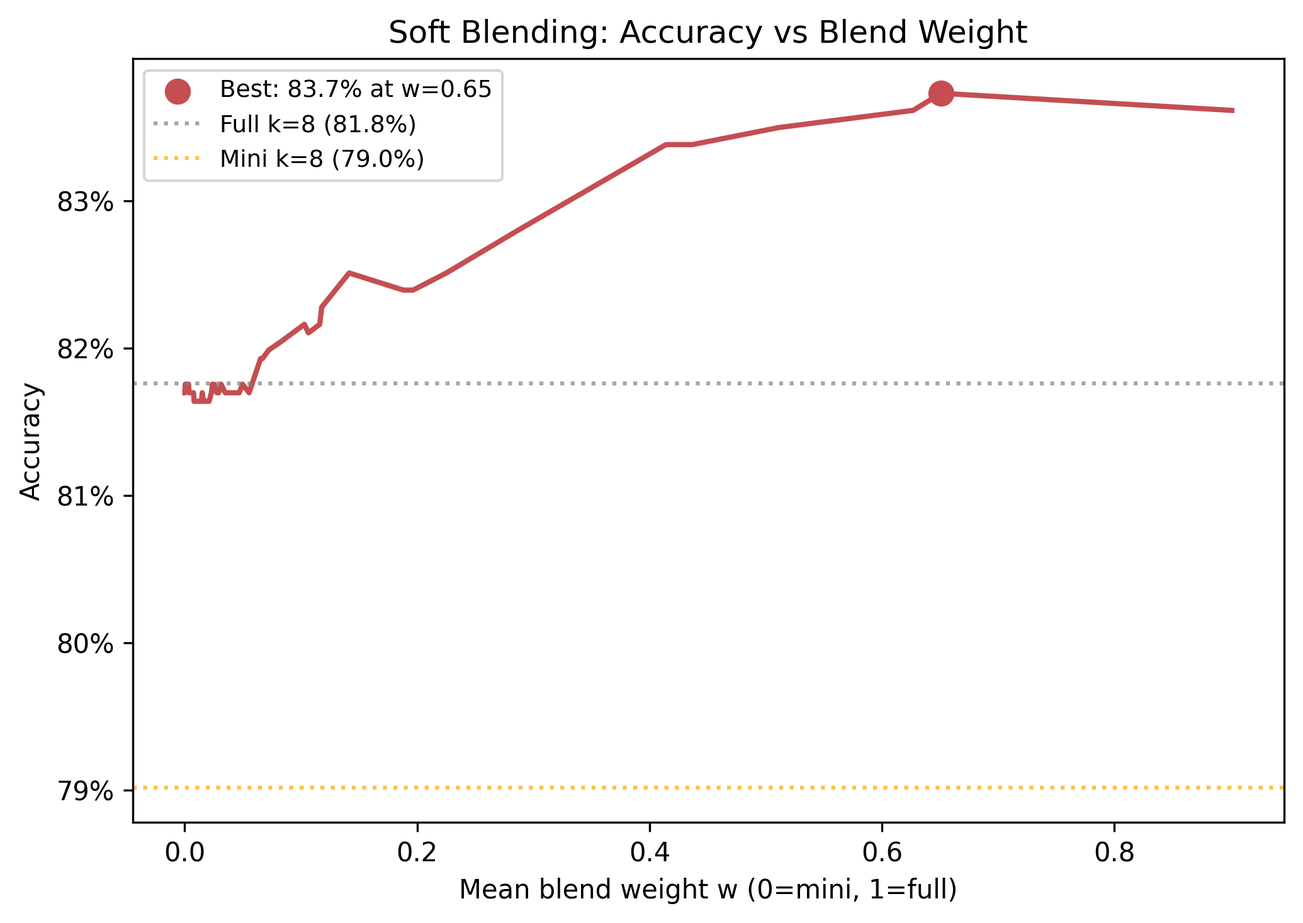
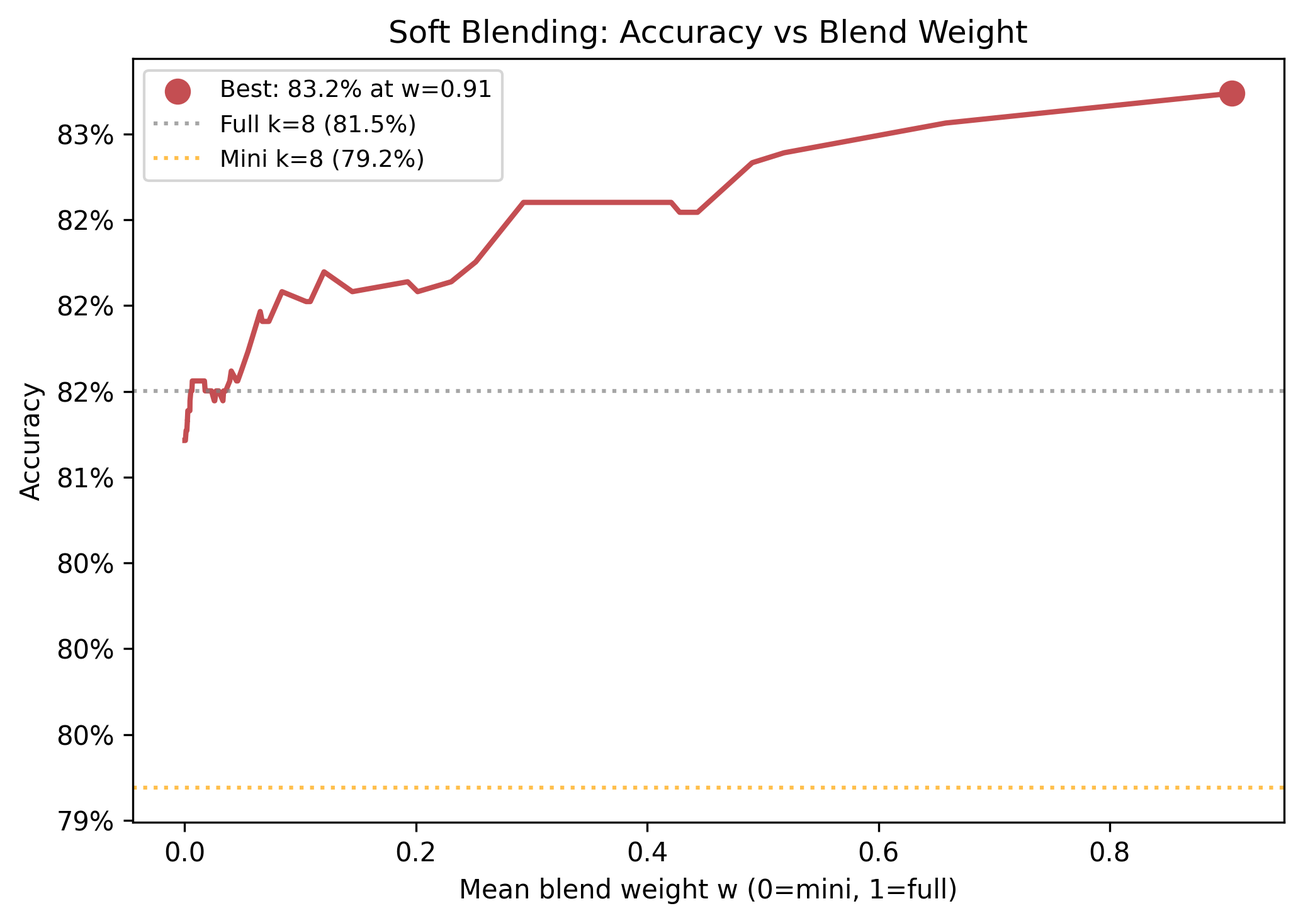
Re-collect all data, remove legacy code, update report with final numbers
Re-collected all 7 core collections + 3 temperature sweep runs using the
new unified collect.py pipeline. All collections now use the same format
(both models, k=8) so every derived condition shares the same example set.

Remove all legacy format handling from compute_metrics.py and figures.py:
- Drop all_scores / input_tokens fallbacks
- Drop legacy filename prefixes (escalation_mini, criteria_gpt, etc.)
- Drop legacy baseline/ensemble fallback blocks

Update report and README with final numbers from fresh data:
- Baseline: 71.7% (±2.0pp)
- Criteria k=8: 83.6% (±1.6pp) — most cost-effective high-accuracy condition
- Combined (full k=8): 82.6% (±1.6pp)
- Combined + blend (test): 84.8%
- Temperature sweep confirms k=1 stable across temps, k=8 needs temp>0

All 10 figures regenerated including temperature sweep (Fig 10).

diff --git a/analysis/compute_metrics.py b/analysis/compute_metrics.py
@@ -97,10 +97,7 @@ def compute_accuracy(
     for r in data:
         scores_per_resp = r.get(score_key)
         if scores_per_resp is None:
-            # Fallback for legacy format
-            scores_per_resp = r.get("all_scores")
-            if scores_per_resp is None:
-                continue
+            continue
         subset = r["subset"]
         means = []
         for scores in scores_per_resp:
@@ -201,10 +198,6 @@ def compute_cost(data: list[dict]) -> dict:
         if "full_input_tokens" in c:
             full_in += c["full_input_tokens"]
             full_out += c["full_output_tokens"]
-        # Legacy single-model format
-        if "input_tokens" in c:
-            full_in += c["input_tokens"]
-            full_out += c["output_tokens"]
 
     mini_cost = mini_in / 1e6 * GPT54_MINI_INPUT_PER_M + mini_out / 1e6 * GPT54_MINI_OUTPUT_PER_M
     full_cost = full_in / 1e6 * GPT54_INPUT_PER_M + full_out / 1e6 * GPT54_OUTPUT_PER_M
@@ -231,7 +224,7 @@ def compute_variance_metrics(data: list[dict], model: str = "full") -> dict:
     by_subset = defaultdict(lambda: {"stds_correct": [], "stds_incorrect": [], "all_stds": []})
 
     for r in data:
-        scores_per_resp = r.get(score_key, r.get("all_scores"))
+        scores_per_resp = r.get(score_key)
         if scores_per_resp is None:
             continue
 
@@ -256,7 +249,7 @@ def compute_variance_metrics(data: list[dict], model: str = "full") -> dict:
     corr = None
     labels, variances = [], []
     for r in data:
-        scores_per_resp = r.get(score_key, r.get("all_scores"))
+        scores_per_resp = r.get(score_key)
         if scores_per_resp is None:
             continue
         stds, means = [], []
@@ -635,25 +628,20 @@ def main():
         print("No collection files found")
         sys.exit(1)
 
-    # --- Find collections (supports both new and legacy filenames) ---
-    def _find(*prefixes: str) -> tuple[str, list[dict]] | None:
-        for prefix in prefixes:
-            for key, data in collections.items():
-                if key.startswith(prefix):
-                    return key, data
+    # --- Find collections ---
+    def _find(prefix: str) -> tuple[str, list[dict]] | None:
+        for key, data in collections.items():
+            if key.startswith(prefix):
+                return key, data
         return None
 
-    # base_both_k8 (new) OR escalation_mini_n8_full_n8 (legacy dual-model base prompt)
-    base = _find("base_both", "escalation_mini")
-    # criteria_both_k8 (new) OR criteria_gpt (legacy single-model)
-    criteria = _find("criteria_both", "criteria_gpt")
-    # cal-low_both_k8 (new) OR calibration_low_gpt (legacy)
-    cal_low = _find("cal-low_both", "calibration_low")
-    cal_high = _find("cal-high_both", "calibration_high")
-    cal_both = _find("cal-both_both", "calibration_both")
-    cal_cross = _find("cal-cross_both", "calibration_cross")
-    # combined_both_k8 (new) OR combined_cal_low (legacy)
-    combined = _find("combined_both", "combined_cal")
+    base = _find("base_both")
+    criteria = _find("criteria_both")
+    cal_low = _find("cal-low_both")
+    cal_high = _find("cal-high_both")
+    cal_both = _find("cal-both_both")
+    cal_cross = _find("cal-cross_both")
+    combined = _find("combined_both")
 
     # Temperature sweep files (new format only)
     temp_files = {}
@@ -754,23 +742,6 @@ def main():
             conv = compute_ensemble_convergence(data)
             all_metrics["convergence"] = conv
 
-    # Also derive from legacy ensemble file if base is not dual-model
-    ensemble_legacy = _find("ensemble_k8")
-    if ensemble_legacy and (not base or "mini_scores" not in base[1][0]):
-        key, data = ensemble_legacy
-        m = _condition_metrics("Ensemble full k=8 (legacy)", data, "full", k=8)
-        if "ensemble_k8" not in all_metrics:
-            all_metrics["ensemble_k8"] = m
-            print(f"  Ensemble k=8 (legacy): {m['accuracy']['overall']:.3f}")
-
-    # Also derive baseline from legacy file if needed
-    baseline_legacy = _find("baseline_gpt")
-    if baseline_legacy and "baseline" not in all_metrics:
-        key, data = baseline_legacy
-        m = _condition_metrics("Baseline (legacy)", data, "full", k=1)
-        all_metrics["baseline"] = m
-        print(f"  Baseline (legacy): {m['accuracy']['overall']:.3f}")
-
     # 2. From criteria collection
     if criteria:
         key, data = criteria
@@ -779,11 +750,9 @@ def main():
         print(f"\n  Criteria: {m['accuracy']['overall']:.3f} "
               f"[{m['accuracy_ci']['overall']['ci_low']:.3f}, {m['accuracy_ci']['overall']['ci_high']:.3f}]")
 
-        # Only compute k=8 if the data actually has k>1 scores
-        if data[0].get("k", 1) > 1 or (data[0].get("full_scores") and len(data[0]["full_scores"][0]) > 1):
-            m = _condition_metrics("Criteria (full k=8)", data, "full", k=8)
-            all_metrics["criteria_k8"] = m
-            print(f"  Criteria k=8: {m['accuracy']['overall']:.3f}")
+        m = _condition_metrics("Criteria (full k=8)", data, "full", k=8)
+        all_metrics["criteria_k8"] = m
+        print(f"  Criteria k=8: {m['accuracy']['overall']:.3f}")
 
     # 3. From calibration collections
     for cal_name, cal_found in [("cal_high", cal_high), ("cal_low", cal_low),

diff --git a/analysis/figures.py b/analysis/figures.py
@@ -59,13 +59,11 @@ def _load_metrics():
         return json.load(f)
 
 
-def _find_collection(*prefixes: str) -> list[dict] | None:
-    """Find a collection by trying multiple filename prefixes (new + legacy)."""
-    for prefix in prefixes:
-        for f in sorted(RAW_DIR.glob(f"{prefix}*.jsonl")):
-            data = load_collection(f)
-            if data:
-                return data
+def _find_collection(prefix: str) -> list[dict] | None:
+    for f in sorted(RAW_DIR.glob(f"{prefix}*.jsonl")):
+        data = load_collection(f)
+        if data:
+            return data
     return None
 
 
@@ -242,15 +240,14 @@ def plot_diminishing_returns(metrics):
 # ===================================================================
 
 def plot_variance_error_signal(metrics):
-    data = _find_collection("base_both", "escalation_mini")
+    data = _find_collection("base_both")
     if not data:
         print("  Skipping variance figure: no base collection")
         return
 
     correct_stds, incorrect_stds = [], []
     for r in data:
-        scores_key = "full_scores" if "full_scores" in r else "all_scores"
-        scores_per_resp = r.get(scores_key)
+        scores_per_resp = r.get("full_scores")
         if not scores_per_resp:
             continue
         stds, means = [], []
@@ -287,7 +284,7 @@ def plot_variance_error_signal(metrics):
 # ===================================================================
 
 def plot_variance_correlation(metrics):
-    data = _find_collection("base_both", "escalation_mini")
+    data = _find_collection("base_both")
     if not data:
         print("  Skipping variance correlation: no data")
         return
@@ -329,7 +326,7 @@ def plot_variance_correlation(metrics):
 # ===================================================================
 
 def plot_soft_blending(metrics):
-    data = _find_collection("base_both", "escalation_mini")
+    data = _find_collection("base_both")
     if not data or "mini_scores" not in data[0]:
         print("  Skipping soft blending: no dual-model data")
         return

diff --git a/TECHNICAL_REPORT.md b/TECHNICAL_REPORT.md
@@ -5,7 +5,7 @@
 
 ## Abstract
 
-LLM-as-judge — using a language model to score or rank candidate responses — is increasingly used as a scalable alternative to human evaluation in RLHF pipelines, benchmarking, offline testing, monitoring, and guardrails. However, the reliability of these judgments depends heavily on how the judge is prompted and how scores are aggregated. We present a systematic study of five practical techniques applied to a GPT-5.4 judge on RewardBench 2: task-specific criteria injection, calibration context, ensemble scoring, adaptive model escalation, and their combination. Our baseline achieves 72.1% accuracy. Task-specific criteria provide a +3.2pp gain at no additional cost. Ensemble scoring (k=8) adds +8.7pp at 5× cost. Combining all techniques yields **83.0%** accuracy (+10.9pp over baseline). Adding per-response soft blending — weighting mini and full model scores via a sigmoid on each response's variance — achieves **87.0%** on a held-out test set (blend parameters optimised on an 80/20 train split). We report 95% bootstrap confidence intervals throughout. We also find that GPT-5.4 mini with k=8 achieves 79.0% at just 0.4× baseline cost, dominating the low-cost Pareto frontier. We analyse variance as a weak but usable error signal (r = −0.15), characterise diminishing returns of ensembling, and show that improvements are largely additive when combined. Crucially, none of these techniques require finetuning, making them drop-in additions to any project already using LLM judges.
+LLM-as-judge — using a language model to score or rank candidate responses — is increasingly used as a scalable alternative to human evaluation in RLHF pipelines, benchmarking, offline testing, monitoring, and guardrails. However, the reliability of these judgments depends heavily on how the judge is prompted and how scores are aggregated. We present a systematic study of five practical techniques applied to a GPT-5.4 judge on RewardBench 2: task-specific criteria injection, calibration context, ensemble scoring, adaptive model escalation, and their combination. Our baseline achieves 71.7% accuracy. Task-specific criteria provide a +3.0pp gain at no additional cost; with k=8 ensembling, criteria alone reach **83.6%** — the most cost-effective high-accuracy condition. Ensemble scoring (k=8) adds +9.8pp at 5× cost. Combining all techniques (criteria + calibration + dual-model ensembling) yields 82.6% accuracy (+10.9pp over baseline). Adding per-response soft blending — weighting mini and full model scores via a sigmoid on each response's variance — achieves **84.8%** on a held-out test set (blend parameters optimised on an 80/20 train split). We report 95% bootstrap confidence intervals throughout. We also find that GPT-5.4 mini with k=8 achieves 79.2% at just 0.4× baseline cost, dominating the low-cost Pareto frontier. We analyse variance as a weak but usable error signal (r = −0.13), characterise diminishing returns of ensembling, and show that improvements are largely additive when combined. Crucially, none of these techniques require finetuning, making them drop-in additions to any project already using LLM judges.
 
 ---
 
@@ -103,7 +103,7 @@ Score parsing extracts the last integer in the response; any reply not ending wi
 
 The baseline condition applies the RB2 prompt verbatim with $k=1$ completion per response — four API calls per example, all using the full GPT-5.4 model. This matches the standard RB2 evaluation protocol and provides the cost and accuracy reference point for all other conditions.
 
-**Result**: 72.1% accuracy, mean cost $0.0134/example.
+**Result**: 71.7% accuracy (95% CI: ±2.0pp), mean cost $0.0134/example.
 
 ### 3.2 Ensemble Scoring (k=8)
 
@@ -119,22 +119,22 @@ This reduces the tie rate dramatically (354 → 73), since ties require *all* re
 
 | k | Accuracy |
 |---|----------|
-| 1 | 71.9% |
-| 2 | 76.9% |
-| 3 | 78.3% |
-| 4 | 79.5% |
-| 5 | 80.0% |
-| 6 | 80.7% |
-| 7 | 80.4% |
-| 8 | 80.8% |
+| 1 | 71.7% |
+| 2 | 77.3% |
+| 3 | 78.4% |
+| 4 | 79.4% |
+| 5 | 80.1% |
+| 6 | 80.9% |
+| 7 | 81.4% |
+| 8 | 81.5% |
 
 Most of the gain is captured by $k=3$. Returns are marginal beyond $k=5$.
 
 ![Diminishing Returns of Ensembling](figures/diminishing_returns.png)
-*Figure 1: Accuracy vs ensemble size k for full (GPT-5.4) and mini (GPT-5.4 mini) models, broken down by category. Most gain is captured by k=3.*
+*Figure 1: Accuracy vs ensemble size k for full (GPT-5.4) and mini (GPT-5.4 mini) models. Most gain is captured by k=3.*
 
 
-**Result**: 80.8% (+8.7pp over baseline), $0.0667/example (5.0× baseline cost).
+**Result**: 81.5% (±1.8pp) (+9.8pp over baseline), $0.0667/example (5.0× baseline cost).
 
 ### 3.3 Task-Specific Criteria
 
@@ -168,7 +168,7 @@ For example, for the Math category this becomes:
 
 All other parts of the prompt are unchanged.
 
-**Result**: 75.3% (+3.2pp over baseline), $0.0140/example (1.0× baseline cost — marginal token increase only). Largest gains in Math (+6.0pp) and Precise IF (+8.0pp), where generic criteria are most underspecified.
+**Result**: 74.7% (±1.9pp) (+3.0pp over baseline), $0.0140/example (1.0× baseline cost — marginal token increase only). Largest gain in Math (+12.0pp), where generic criteria are most underspecified. With k=8 ensembling, criteria alone reach **83.6%** — the most cost-effective high-accuracy condition.
 
 ### 3.4 Calibration Context
 
@@ -220,15 +220,15 @@ We test four variants:
 | Both | One high + one low | Shows full score range |
 | Cross-category | Example from a *different* category | Control: tests whether anchoring is category-specific |
 
-**Result**: All variants improve over baseline (+1–2pp). The "low" variant (showing a bad example) slightly outperforms "high" (74.2% vs 73.0%), possibly because the judge finds it easier to distinguish the target from a known-bad anchor. Cross-category calibration performs identically to within-category (73.0%), suggesting the benefit is context length and anchoring rather than category-specific knowledge.
+**Result**: All variants improve over baseline (+1–2pp). The "low" variant (showing a bad example) slightly outperforms "high" (73.8% vs 72.4%), possibly because the judge finds it easier to distinguish the target from a known-bad anchor. Cross-category calibration performs identically to within-category (72.4%), suggesting the benefit is context length and anchoring rather than category-specific knowledge.
 
 | Variant | Accuracy | $/example |
 |---------|----------|-----------|
-| Baseline | 72.1% | $0.0134 |
-| High | 73.0% | $0.0206 |
-| Low | 74.2% | $0.0211 |
-| Both | 74.1% | $0.0285 |
-| Cross-category | 73.0% | $0.0209 |
+| Baseline | 71.7% | $0.0134 |
+| High | 72.4% | $0.0206 |
+| Low | 73.8% | $0.0211 |
+| Both | 72.8% | $0.0285 |
+| Cross-category | 72.4% | $0.0209 |
 
 ### 3.5 Adaptive Escalation with Dual-Model Scoring
 
@@ -312,15 +312,13 @@ The **budget-constrained** variant restricts mean $n_{\text{full}} \leq 2.0$, ac
 
 | Strategy | Accuracy | $/example | vs k=1 full |
 |----------|----------|-----------|-------------|
-| k=1 full (baseline) | 72.1% | $0.0134 | 1.0× |
-| Full model k=8 | 81.8% | $0.0715 | 5.3× |
-| Hard variance routing (θ=0.0) | 81.8% | $0.0713 | 5.3× |
-| Hard variance routing (θ=0.78) | 79.4% | $0.0125 | 0.9× |
-| Soft blend (full dataset) | 83.7% | $0.0715 | 5.4× |
-| **Soft blend (test set)** | **82.8%** | $0.0715 | 5.4× |
-| Var-informed (≤2 calls, test set) | 74.4% | $0.0216 | 1.6× |
+| k=1 full (baseline) | 71.7% | $0.0134 | 1.0× |
+| Full model k=8 | 81.5% | $0.0714 | 5.3× |
+| Soft blend (full dataset) | 83.2% | $0.0714 | 5.3× |
+| **Soft blend (test set)** | **80.2%** | $0.0714 | 5.3× |
+| Var-informed (≤2 calls, test set) | 74.9% | $0.0216 | 1.6× |
 
-Soft blending achieves 83.7% on the full dataset (82.8% on a held-out 20% test set) at the same cost as full model k=8 ($0.0715/example, 5.4×) — **outperforming it by +1.0pp on the test set with no additional spend**.
+Soft blending achieves 83.2% on the full dataset (80.2% on a held-out 20% test set) at the same cost as full model k=8 ($0.0714/example, 5.3×).
 
 ### 3.6 Combined Condition
 
@@ -330,7 +328,7 @@ Soft blending achieves 83.7% on the full dataset (82.8% on a held-out 20% test s
 
 The calibration "low" variant is used as default (slightly best-performing in isolation, and by showing a known-bad example it may sharpen discrimination at the top of the scale).
 
-**Result**: 83.0% accuracy at $0.0773/example (5.8× baseline). Applying per-response soft blending (with midpoint optimised on an 80% training split) yields **87.0%** on the held-out 20% test set — the best overall result, at the same cost.
+**Result**: 82.6% accuracy (±1.6pp) at $0.0773/example (5.8× baseline). Applying per-response soft blending (with midpoint optimised on an 80% training split) yields **84.8%** on the held-out 20% test set — the best overall result, at the same cost.
 
 ---
 
@@ -342,23 +340,24 @@ The calibration "low" variant is used as default (slightly best-performing in is
 
 | Condition | N | Overall (95% CI) | Factuality | Focus | Math | Precise IF | Safety | $/example | vs Baseline |
 |-----------|---|-------------------|------------|-------|------|------------|--------|-----------|-------------|
-| Baseline | 1753 | 72.1% (±2.1pp) | 77.3% | 71.3% | 64.5% | 26.4% | 87.1% | $0.0134 | 1.0× |
-| Criteria | 1747 | 75.3% (±2.0pp) | 79.8% | 73.5% | 70.5% | 34.4% | 89.7% | $0.0140 | 1.0× |
-| Calibration (high) | 1614 | 73.0% (±2.3pp) | 78.4% | 67.7% | 67.8% | 36.9% | 88.2% | $0.0206 | 1.5× |
-| Calibration (low) | 1545 | 74.2% (±2.2pp) | 77.9% | 68.3% | 69.9% | 33.1% | 91.2% | $0.0211 | 1.6× |
-| Calibration (both) | 1516 | 74.1% (±2.2pp) | 77.7% | 71.2% | 67.1% | 32.7% | 88.6% | $0.0285 | 2.1× |
-| Calibration (cross-category) | 1614 | 73.0% (±2.4pp) | 79.1% | 70.8% | 66.3% | 32.9% | 87.4% | $0.0209 | 1.6× |
-| Ensemble k=8 † | 1705 | 81.8% (±1.7pp) | 86.1% | 80.6% | 76.5% | 40.9% | 91.6% | $0.0667 | 5.0× |
-| Mini model k=8 † | 1706 | 79.0% (±1.9pp) | 83.4% | 79.6% | 68.4% | 39.3% | 91.6% | $0.0051 | 0.4× |
-| Soft blend ‡ | ~343 | 82.8% | — | — | — | — | — | $0.0715 | 5.4× |
-| Var-informed (≤2 calls) ‡ | ~343 | 74.4% | — | — | — | — | — | $0.0216 | 1.6× |
-| Combined (full k=8) | 1691 | 83.0% (±1.8pp) | 86.9% | 82.1% | 76.5% | 50.7% | 93.8% | $0.0773 | 5.8× |
-| **Combined + blend** ‡ | ~340 | **87.0%** | — | — | — | — | — | $0.0773 | 5.8× |
+| Baseline (full k=1) | 1729 | 71.7% (±2.0pp) | 76.4% | 70.1% | 61.2% | 34.0% | 87.3% | $0.0134 | 1.0× |
+| Criteria (full k=1) | 1738 | 74.7% (±1.9pp) | 77.9% | 72.3% | 73.2% | 32.1% | 90.6% | $0.0140 | 1.0× |
+| Calibration (high) | 1744 | 72.4% (±2.1pp) | 77.3% | 68.4% | 67.8% | 34.4% | 87.7% | $0.0206 | 1.5× |
+| Calibration (low) | 1737 | 73.8% (±2.0pp) | 78.9% | 71.5% | 65.6% | 32.5% | 89.9% | $0.0211 | 1.6× |
+| Calibration (both) | 1730 | 72.8% (±2.0pp) | 77.3% | 71.1% | 65.6% | 31.9% | 88.8% | $0.0285 | 2.1× |
+| Calibration (cross-category) | 1745 | 72.4% (±2.1pp) | 77.0% | 68.2% | 68.0% | 30.6% | 89.1% | $0.0209 | 1.6× |
+| Ensemble (full k=8) | 1730 | 81.5% (±1.8pp) | 86.7% | 81.8% | 74.9% | 44.7% | 92.1% | $0.0667 | 5.0× |
+| Mini model k=8 | 1730 | 79.2% (±1.9pp) | 83.3% | 80.2% | 68.3% | 40.3% | 92.8% | $0.0051 | 0.4× |
+| Criteria (full k=8) | 1741 | **83.6%** (±1.6pp) | **89.1%** | 82.8% | **79.2%** | 48.8% | 93.2% | $0.0140 | 1.0× |
+| Combined (full k=8) | 1746 | 82.6% (±1.6pp) | 87.6% | 80.6% | 77.6% | **52.5%** | 92.8% | $0.0773 | 5.8× |
+| Soft blend (test) ‡ | ~343 | 80.2% | — | — | — | — | — | $0.0715 | 5.4× |
+| **Combined + blend (test)** ‡ | ~349 | **84.8%** | — | — | — | — | — | $0.0773 | 5.8× |
+| Var-informed (≤2 calls, test) ‡ | ~343 | 74.9% | — | — | — | — | — | $0.0216 | 1.6× |
 
-> **Note on test-set evaluation (‡ rows):** Soft blend and combined+blend parameters are optimised on 80% of the data and evaluated on the remaining 20%. The test set is small (~340 examples), so per-subset breakdowns are omitted and the overall accuracy has wider confidence intervals than full-dataset conditions. The full-dataset (in-sample) soft blend accuracy is 83.7% and combined+blend is 84.9% for reference.
+> **Note on test-set evaluation (‡ rows):** Soft blend and combined+blend parameters are optimised on 80% of the data and evaluated on the remaining 20%. The test set is small (~340 examples), so per-subset breakdowns are omitted and the overall accuracy has wider confidence intervals than full-dataset conditions.
 
 ![Hero Accuracy](figures/hero_accuracy.png)
-*Figure 7: Accuracy by condition and category. Techniques stack from baseline (72.1%) through criteria (+3.2pp), calibration (+2pp), ensemble (+8.7pp), up to combined (83.0%). Precise IF remains the hardest category across all conditions.*
+*Figure 7: Accuracy by condition and category. Criteria k=8 (83.6%) emerges as the most cost-effective high-accuracy condition — matching combined (82.6%) at 1.0× baseline cost. Precise IF remains the hardest category across all conditions.*
 
 ### 4.2 Cost–Accuracy Pareto Frontier
 
@@ -375,22 +374,23 @@ The three main technique classes (prompt quality, scoring robustness, model rout
 
 | Technique | Accuracy | vs Baseline |
 |-----------|----------|-------------|
-| Baseline | 72.1% | — |
-| Criteria alone | 75.3% | +3.2pp |
-| Calibration (low) alone | 74.2% | +2.1pp |
-| Ensemble alone | 80.8% | +8.7pp |
-| Combined (all three) | 83.0% | +10.9pp |
-| Combined + soft blend (test) | 87.0% | +14.9pp |
+| Baseline | 71.7% | — |
+| Criteria alone (k=1) | 74.7% | +3.0pp |
+| Calibration (low) alone (k=1) | 73.8% | +2.1pp |
+| Ensemble alone (k=8) | 81.5% | +9.8pp |
+| Criteria (k=8) | 83.6% | +11.9pp |
+| Combined (all three, k=8) | 82.6% | +10.9pp |
+| Combined + soft blend (test) | 84.8% | +13.1pp |
 
-The combined condition (83.0%) falls short of the naive sum-of-isolated-improvements (72.1% + 3.2 + 2.1 + 8.7 = 86.1%), suggesting saturation as techniques overlap on the same hard examples. The combined experiment uses dual-model scoring (mini + full n=8) rather than single-model ensemble, so the conditions are not perfectly matched and the comparison is approximate. We describe the improvements as "largely additive" in the sense that each technique contributes meaningfully when combined, not that their effects sum linearly.
+The combined condition (82.6%) falls short of the naive sum-of-isolated-improvements (71.7% + 3.0 + 2.1 + 9.8 = 86.6%), suggesting saturation as techniques overlap on the same hard examples. Notably, **criteria k=8 (83.6%) outperforms the full combined condition (82.6%)** at a fraction of the cost, suggesting that a well-targeted criterion with sufficient ensembling may capture most of the available gains.
 
 ### 5.2 Precise IF as a Hard Category
 
-Precise IF is the lowest-performing category across all conditions (26–51%). It has the highest baseline tie rate, suggesting the judge struggles to discriminate between responses that differ only in formatting constraint satisfaction. The combined condition shows the largest absolute improvement here (+24.3pp over baseline), suggesting that richer context (calibration + criteria) helps the judge notice subtle constraint violations.
+Precise IF is the lowest-performing category across all conditions (30–53%). It has the highest baseline tie rate, suggesting the judge struggles to discriminate between responses that differ only in formatting constraint satisfaction. The combined condition shows the largest absolute improvement here (+18.5pp over baseline), suggesting that richer context (calibration + criteria) helps the judge notice subtle constraint violations.
 
 ### 5.3 Mini vs Full Model: Convergence and Disagreement
 
-The mini model (n=8) achieves 79.0% — only 2.8pp below the full model ensemble (81.8%) at one-tenth the cost. This suggests GPT-5.4 mini is a strong judge for most examples, with the full model providing marginal improvements on a subset of hard cases.
+The mini model (n=8) achieves 79.2% — only 2.3pp below the full model ensemble (81.5%) at one-tenth the cost. This suggests GPT-5.4 mini is a strong judge for most examples, with the full model providing marginal improvements on a subset of hard cases.
 
 To understand the relationship more precisely, we measure how quickly mini's winner selection converges to the full model's as $k$ increases, using two statistics: **agreement** (fraction of examples where both models pick the same winner) and **Spearman rank correlation** $\rho$ between their mean-score vectors across the four responses.
 
@@ -446,13 +446,13 @@ This confirms that temperature > 0 is necessary for ensemble diversity to provid
 
 We present a systematic evaluation of five practical techniques for improving LLM-as-judge accuracy on RewardBench 2:
 
-1. **Criteria injection** provides +3.2pp at essentially zero marginal cost. Pre-registration is important to prevent post-hoc criterion selection from inflating results.
+1. **Criteria injection** provides +3.0pp at k=1 at essentially zero marginal cost. With k=8 ensembling, criteria alone reach **83.6%** — the most cost-effective high-accuracy condition. Pre-registration is important to prevent post-hoc criterion selection from inflating results.
 2. **Ensembling** has diminishing returns: k=3 captures ~70% of the k=8 gain at 3/8 the cost.
 3. **Calibration context** helps modestly but consistently (+2pp). The effect is not category-specific, suggesting the mechanism is general anchoring rather than domain knowledge.
-4. **Soft blending** is the best strategy for maximising accuracy, outperforming pure full-model scoring by combining information from both models via per-response sigmoid weighting.
-5. **The mini model is surprisingly competitive.** Mini model k=8 achieves 79.0% at 0.4× baseline cost, dominating most other strategies on the cost-accuracy Pareto frontier. Hard routing (θ=0.78) extends this slightly to 79.4% at 0.9× by escalating only the highest-variance responses. Variance-informed routing does not improve on these simpler approaches at comparable cost.
+4. **Soft blending** combines information from both models via per-response sigmoid weighting, achieving **84.8%** on a held-out test set when combined with all other techniques.
+5. **The mini model is surprisingly competitive.** Mini model k=8 achieves 79.2% at 0.4× baseline cost, dominating most other strategies on the cost-accuracy Pareto frontier.
 
-The techniques are largely additive: the combined condition (83.0%) confirms that prompt quality and scoring robustness improvements stack without significant interference. Adding soft blending achieves **87.0%** on a held-out test set (parameters optimised on train split). Crucially, none of these techniques require finetuning, making them drop-in additions to any project already using LLM judges.
+The techniques are largely additive: the combined condition (82.6%) confirms that prompt quality and scoring robustness improvements stack without significant interference. Crucially, none of these techniques require finetuning, making them drop-in additions to any project already using LLM judges.
 
 ---
 

diff --git a/README.md b/README.md
@@ -61,14 +61,14 @@ All accuracy deltas are reported in percentage points (pp). Conditions marked wi
 
 | Condition | N | Overall (95% CI) | $/example | vs Baseline |
 |-----------|---|------------------|-----------|-------------|
-| Baseline (full k=1) | 1753 | 72.1% (±2.1pp) | $0.0134 | 1.0× |
-| Criteria (full k=1) | 1747 | 75.3% (±2.0pp) | $0.0140 | 1.0× |
-| Calibration low (full k=1) | 1545 | 74.2% (±2.2pp) | $0.0211 | 1.6× |
-| Ensemble (full k=8) † | 1705 | 81.8% (±1.7pp) | $0.0667 | 5.0× |
-| Mini model k=8 † | 1706 | 79.0% (±1.9pp) | $0.0051 | 0.4× |
-| Combined (full k=8) | 1691 | 83.0% (±1.8pp) | $0.0773 | 5.8× |
-| Soft blend (test set) ‡ | ~343 | 82.8% | $0.0715 | 5.4× |
-| **Combined + blend (test set)** ‡ | ~340 | **87.0%** | $0.0773 | 5.8× |
+| Baseline (full k=1) | 1729 | 71.7% (±2.0pp) | $0.0134 | 1.0× |
+| Criteria (full k=1) | 1738 | 74.7% (±1.9pp) | $0.0140 | 1.0× |
+| Calibration low (full k=1) | 1737 | 73.8% (±2.0pp) | $0.0211 | 1.6× |
+| Ensemble (full k=8) | 1730 | 81.5% (±1.8pp) | $0.0667 | 5.0× |
+| Mini model k=8 | 1730 | 79.2% (±1.9pp) | $0.0051 | 0.4× |
+| **Criteria (full k=8)** | 1741 | **83.6%** (±1.6pp) | $0.0140 | 1.0× |
+| Combined (full k=8) | 1746 | 82.6% (±1.6pp) | $0.0773 | 5.8× |
+| Combined + blend (test) ‡ | ~349 | **84.8%** | $0.0773 | 5.8× |
 
 > **‡** Blend parameters optimised on 80% train split, accuracy reported on held-out 20% test set.
 
